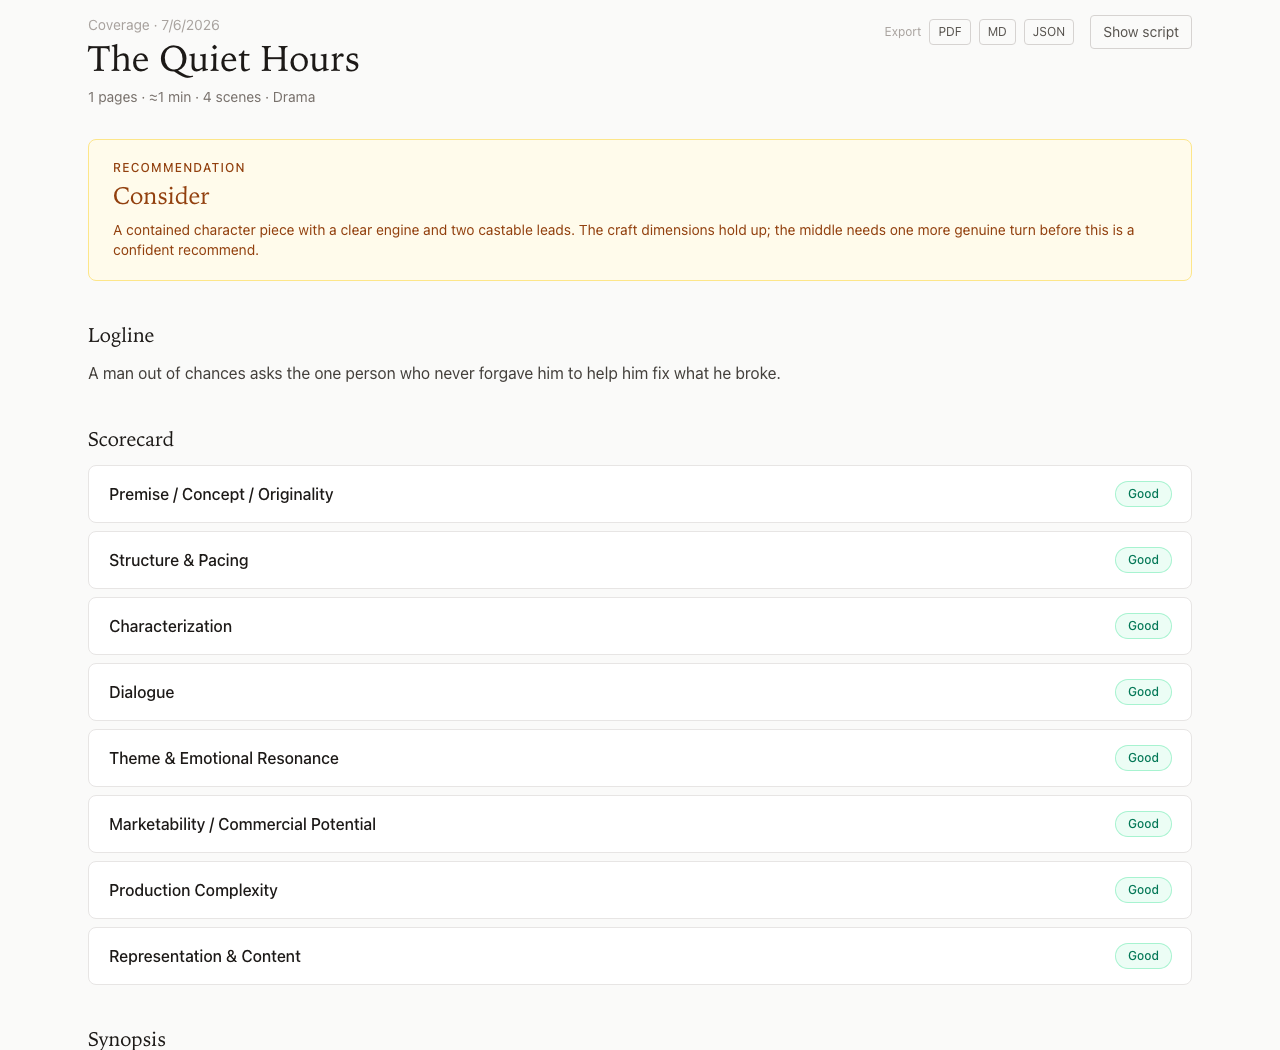
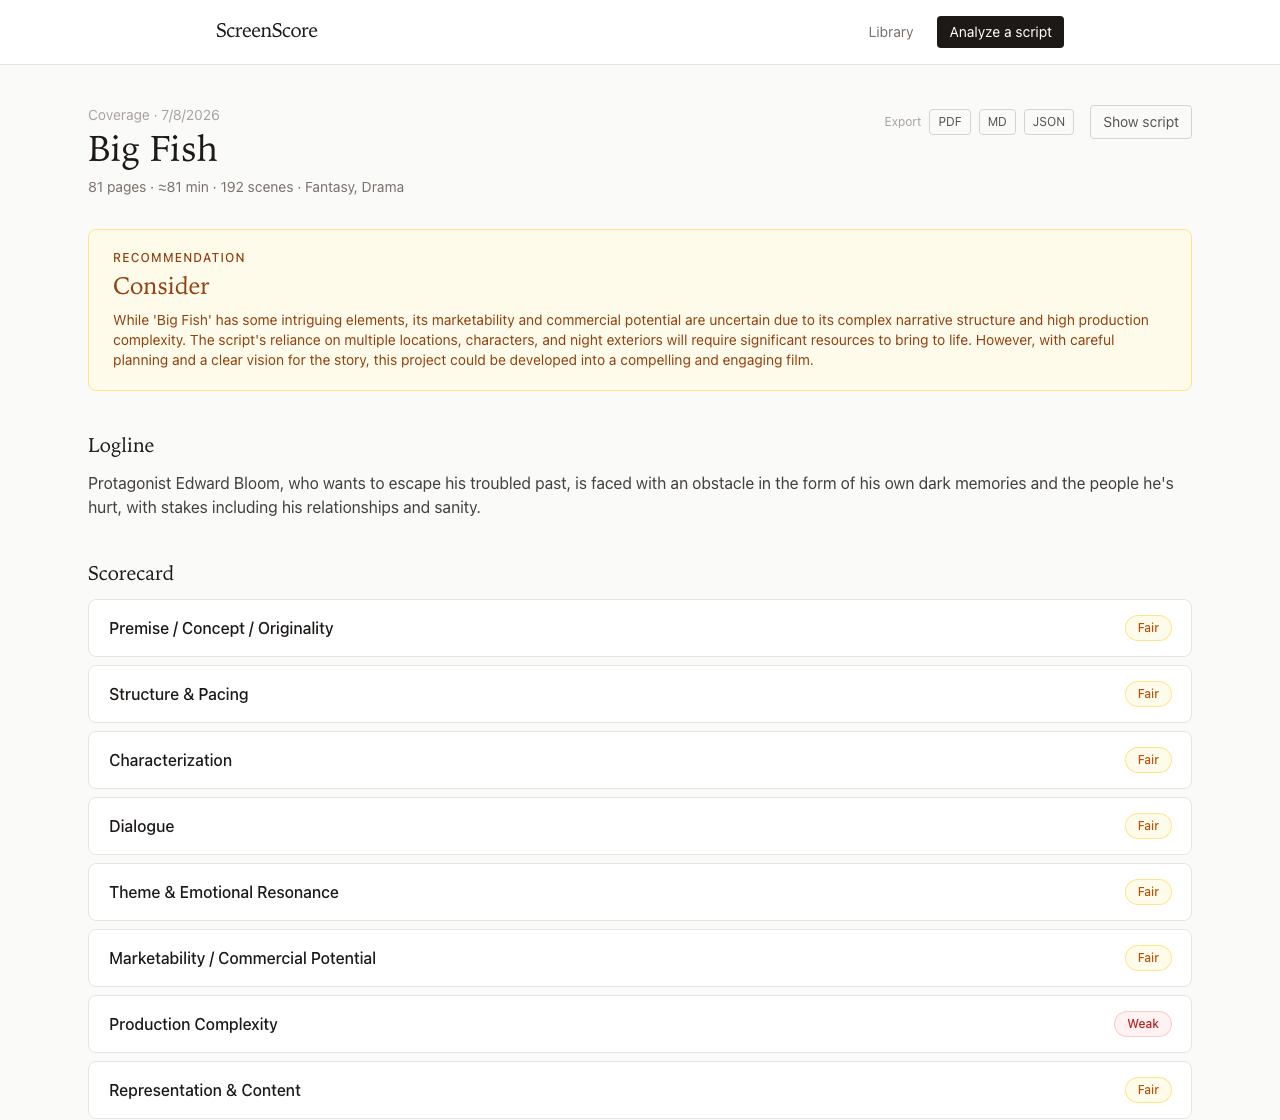
Validation run findings: comps self-reference guard, real Big Fish landing shot, DECISIONS
- _clean_comps: the script can no longer appear as its own comparable;
  '(unverified)' scrubbed from model-emitted comp titles
- Landing hero replaced with the real full-length Big Fish report (192
  scenes, llama3.1:8b, 16GB MacBook) and an accurate caption
- DECISIONS: full-length validation results — 63 min under contention,
  27 citations checked / 5 fabrications dropped / all survivors independently
  confirmed; PDF-vs-Fountain parse identical at 192 scenes

Claude-Session: https://claude.ai/code/session_01LxvYdMXe43dP35twtf8Wi9

diff --git a/docs/index.html b/docs/index.html
@@ -102,7 +102,8 @@
     <div class="pledge"><b>The privacy promise:</b> your script never leaves your computer. No cloud, no account, no telemetry.</div>
     <figure class="shot">
       <img src="assets/report-screenshot.png" alt="A ScreenScore coverage report: title, recommendation, and a scored rubric across eight dimensions.">
-      <figcaption>A ScreenScore report (sample generated on a short demo scene — run your own script for the real thing).</figcaption>
+      <figcaption>A real ScreenScore report: John August's <em>Big Fish</em> (192 scenes), analyzed in about an
+      hour on a 16&nbsp;GB MacBook — every citation checked against the script before it reached the page.</figcaption>
     </figure>
   </div>
 </div>

diff --git a/backend/screenscore/pipeline/stages.py b/backend/screenscore/pipeline/stages.py
@@ -17,6 +17,7 @@ Failure policy:
 import asyncio
 import json
 import os
+import re
 import sqlite3
 import traceback
 from datetime import datetime, timezone
@@ -491,6 +492,28 @@ def _rating_drivers(commercial: dict, scan: dict[str, list[tuple[int, str]]]) ->
     return drivers
 
 
+def _clean_comps(raw: list, script_title: str) -> list[dict]:
+    """Small models sometimes cite the script itself as its own comparable,
+    and copy disclaimer words into titles — scrub both."""
+    def norm(t: str) -> str:
+        return re.sub(r"[^a-z0-9]+", " ", t.lower()).strip()
+
+    comps = []
+    for c in raw:
+        if not isinstance(c, dict) or not c.get("title"):
+            continue
+        title = re.sub(r"\s*\((?:unverified|not verified)\)\s*$", "", str(c["title"]), flags=re.IGNORECASE).strip()
+        if not title or norm(title) == norm(script_title):
+            continue
+        comps.append({
+            "title": title,
+            "year": c.get("year") if isinstance(c.get("year"), int) else None,
+            "medium": c.get("medium") if c.get("medium") in ("film", "tv") else None,
+            "reason": str(c.get("reason") or ""),
+        })
+    return comps[:6]
+
+
 def _verdict(commercial: dict) -> str:
     verdict = ((commercial.get("recommendation") or {}).get("verdict") or "").lower().strip()
     return verdict if verdict in VERDICTS else "consider"
@@ -514,16 +537,7 @@ def _assemble(
         if isinstance(g, dict) and g.get("name")
     ][:3]
 
-    comps = [
-        {
-            "title": str(c["title"]),
-            "year": c.get("year") if isinstance(c.get("year"), int) else None,
-            "medium": c.get("medium") if c.get("medium") in ("film", "tv") else None,
-            "reason": str(c.get("reason") or ""),
-        }
-        for c in (commercial.get("comps") or [])
-        if isinstance(c, dict) and c.get("title")
-    ][:6]
+    comps = _clean_comps(commercial.get("comps") or [], ctx.project["title"])
 
     budget = commercial.get("budget_tier") or {}
     tier = budget.get("tier") if budget.get("tier") in BUDGET_TIERS else "mid"

diff --git a/backend/tests/test_pipeline.py b/backend/tests/test_pipeline.py
@@ -123,6 +123,20 @@ async def test_report_reflects_the_script(app, client):
     assert report["recommendation"]["verdict"] in ("pass", "consider", "recommend")
 
 
+def test_comps_never_include_the_script_itself():
+    from screenscore.pipeline.stages import _clean_comps
+
+    comps = _clean_comps(
+        [
+            {"title": "Big Fish (unverified)", "year": 2019, "medium": "film", "reason": "self"},
+            {"title": "The Curious Case of Benjamin Button (unverified)", "year": 2008, "medium": "film", "reason": "tall-tale framing"},
+            {"title": "", "reason": "empty"},
+        ],
+        script_title="Big Fish",
+    )
+    assert [c["title"] for c in comps] == ["The Curious Case of Benjamin Button"]
+
+
 async def test_generation_options_change_busts_cache(app, client, monkeypatch):
     runtime: FakeRuntime = app.state.runtime
     first = await analyze(client)

diff --git a/docs/DECISIONS.md b/docs/DECISIONS.md
@@ -90,6 +90,30 @@ categorical scores, no native app, …) are not repeated here.
 | 46 | Sluglines accept **letter-prefixed scene numbers** (A12) alongside 12A | Insert-scene numbering is standard in production shooting scripts; the digit-first regex missed them entirely. |
 | 47 | Compose binds **127.0.0.1:8686** instead of all interfaces | The app holds unreleased scripts; LAN exposure by default violated the project's own don't-expose rule. |
 
+## Full-length validation (2026-07-09)
+
+First feature-length run: **Big Fish** (John August's Fountain release; 192 scenes)
+on the minimum tier (`llama3.1:8b` both roles, 16 GB Apple Silicon):
+
+- **63 minutes end-to-end** — and that was while sharing Ollama with a second
+  concurrent run of the PDF version; solo would be materially faster. Machine
+  stayed responsive throughout (memory cap respected).
+- **Verification worked at scale:** 27 citations checked → 20 verified, 2
+  relocated, 5 fabricated/cropped ones dropped; independent re-check confirmed
+  every surviving citation exists in the source.
+- **Parser cross-validation:** the real 124-page PDF of the same script parsed
+  to exactly the same 192 scenes as the Fountain ground truth.
+- **8B quality profile:** structure/character/production facts grounded and
+  correct (Fantasy/Drama, Edward 38% dialogue share, production-heavy read);
+  interpretive judgments flat (all-fair scoring) and the logline mistakes the
+  emotional spine. Judgment quality is a model-tier + prompt-iteration matter;
+  traceability held.
+- Fixes that came out of the run: comps can no longer include the script
+  itself; disclaimer words scrubbed from comp titles.
+
+**Known follow-up (backlog):** an in-app run queue — two simultaneous analyses
+currently compete for the model silently; the second should visibly queue.
+
 Deferred to the next iteration (P1, tracked): per-dimension targeted retrieval for specialists, generation options in cache keys, local-only runtime URL guard, diff-narrative contradiction check, README parsing-claim softening pending a real-script corpus.
 
 ## Process